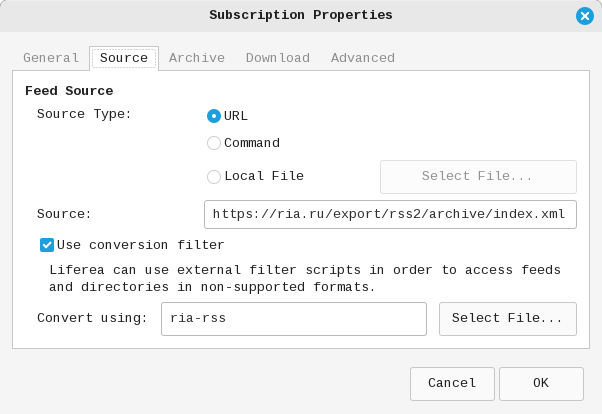
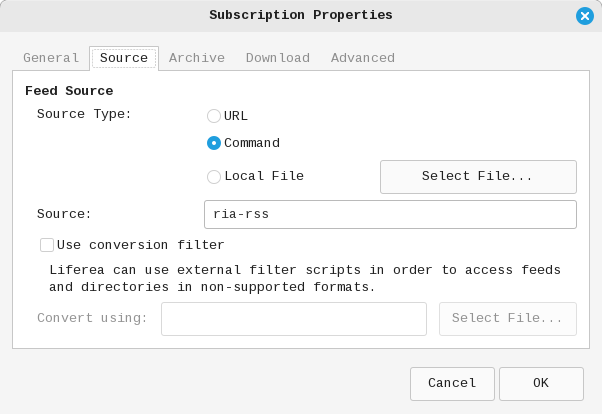
Added code to download original RSS feed.

diff --git a/README.md b/README.md
@@ -3,9 +3,9 @@
 [![License: BSD 3 Clause](https://img.shields.io/badge/License-BSD_3--Clause-yellow.svg)](https://opensource.org/licenses/BSD-3-Clause)
 
 Программа предназначена для использования в качестве внешнего фильтра для RSS от РИА Новости.
-При вызове она считывает RSS feed со своего STDIN и выводит его на STDOUT в формате RSS XML v2.0
+При вызове она считывает RSS feed и выводит его на STDOUT в формате RSS XML v2.0
 с добавлением текста новостей, что делает этот feed чуть более полезным. Обновление всего
-списка новостей может занять некоторое время (примерно 15 секунд на моём компьютере).
+списка новостей может занять некоторое время (около 10 секунд на моём компьютере).
 
 Программа работает на платформе Linux. Протестировано на Linux Mint 22.0.
 
@@ -18,5 +18,5 @@
 - Перейти в корень проекта и запустить `make`
 - Скопировать файл программы `ria-rss` в любую директорию из `$PATH`
 - Подключить программу к используемому RSS ридеру. Способ подключения зависит от ридера.
-  Например, для `liferea` окно настроек выглядит так:
+  Например, для `liferea` окно настроек выглядит так:<br/>
   ![liferea config](settings.png)
